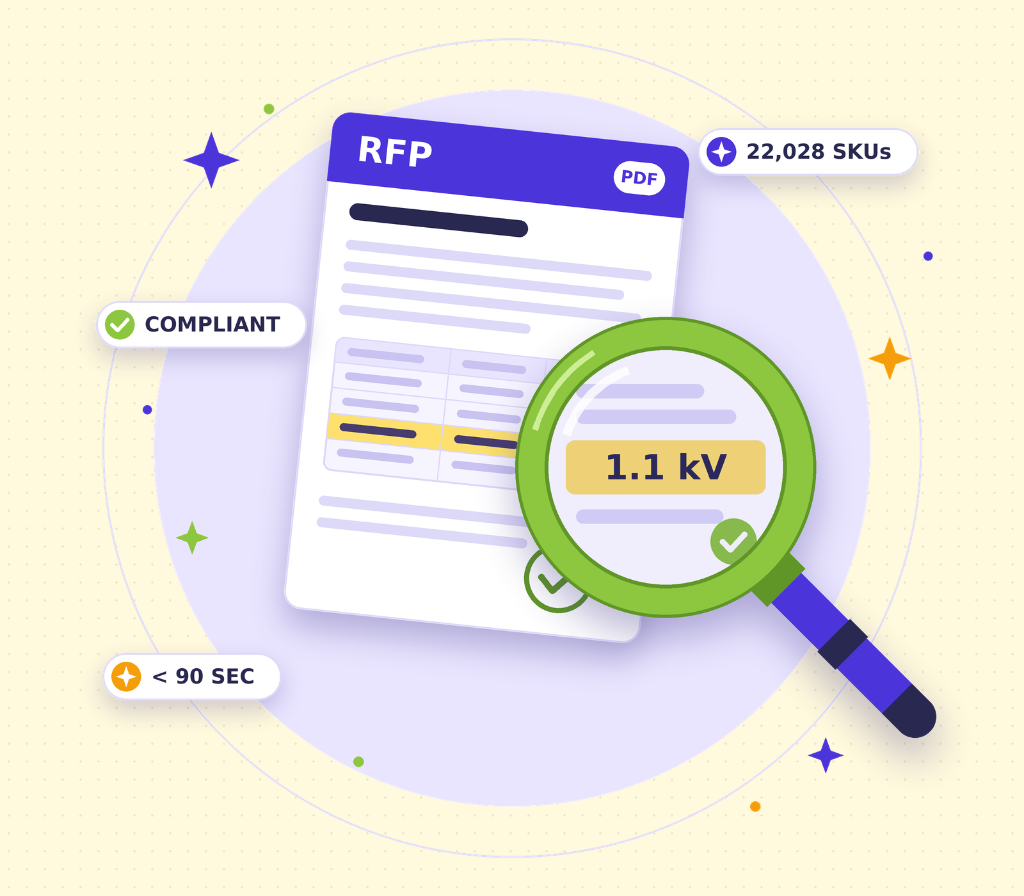
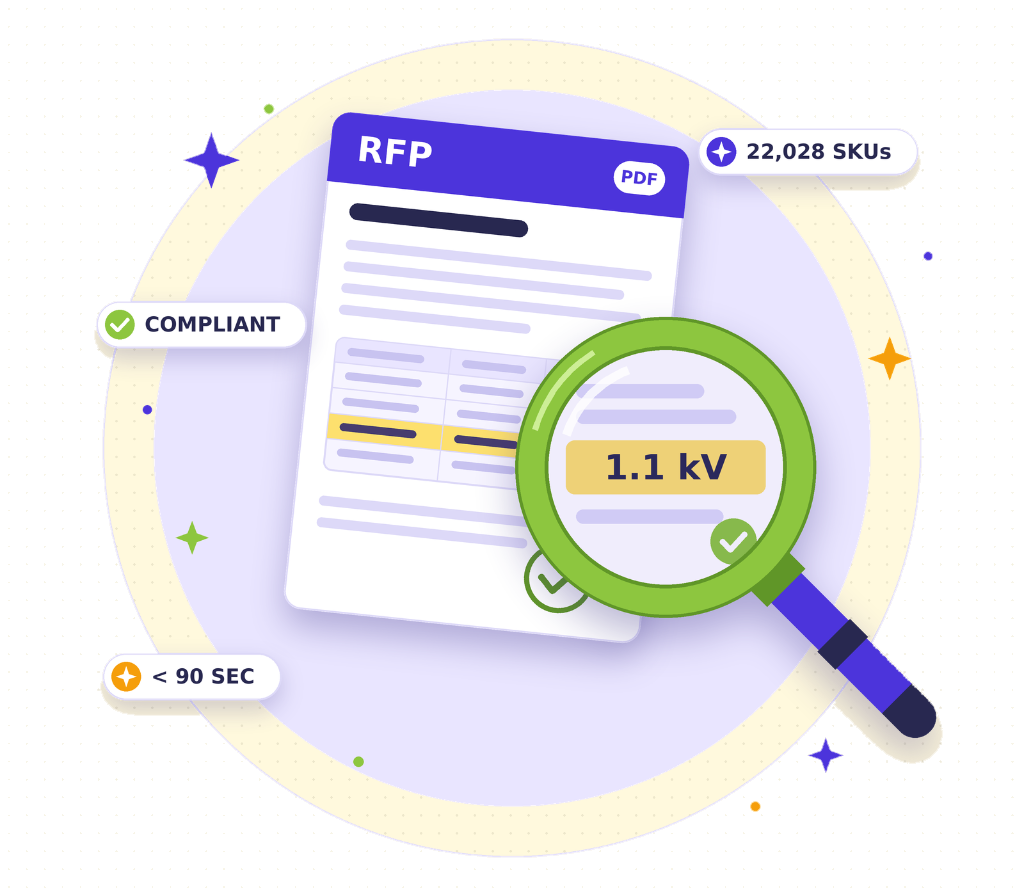
fix(landing): remove bounding box from hero illustration with clean transparent alpha matte

diff --git a/haki-fmcg-frontend/src/pages/LandingPage.tsx b/haki-fmcg-frontend/src/pages/LandingPage.tsx
@@ -526,7 +526,7 @@ export default function LandingPage() {
               <img
                 src="/rfp-hero-illustration.png"
                 alt="Saarthi AI RFP Specification Engine"
-                className="w-full max-w-[340px] sm:max-w-[420px] lg:max-w-[480px] xl:max-w-[520px] h-auto object-contain mix-blend-multiply drop-shadow-[0_20px_40px_rgba(37,99,235,0.08)] transition-transform duration-500 hover:scale-[1.02]"
+                className="w-full max-w-[340px] sm:max-w-[420px] lg:max-w-[480px] xl:max-w-[520px] h-auto object-contain drop-shadow-[0_16px_36px_rgba(37,99,235,0.08)] transition-transform duration-500 hover:scale-[1.02]"
               />
             </motion.div>
           </div>
